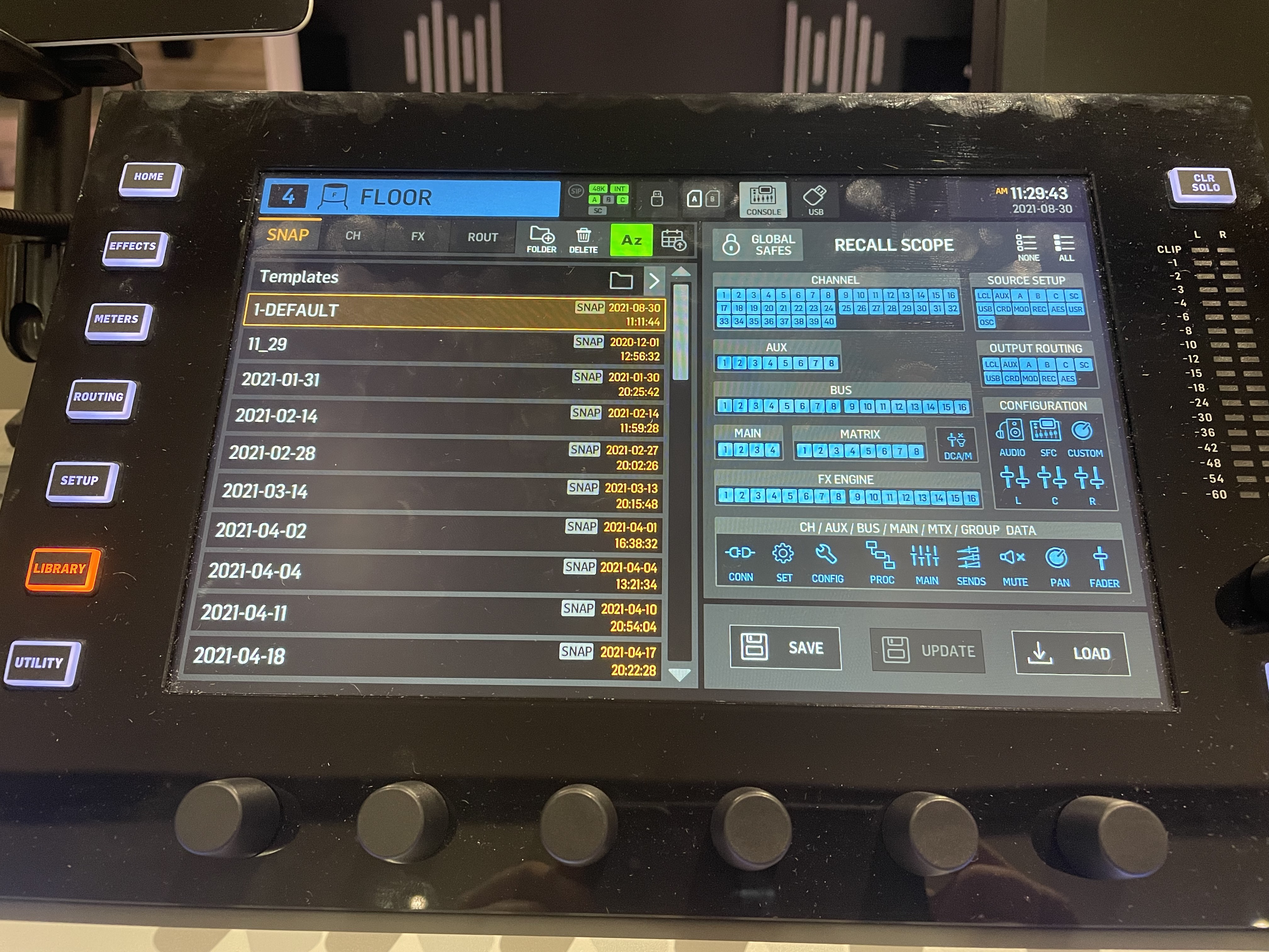
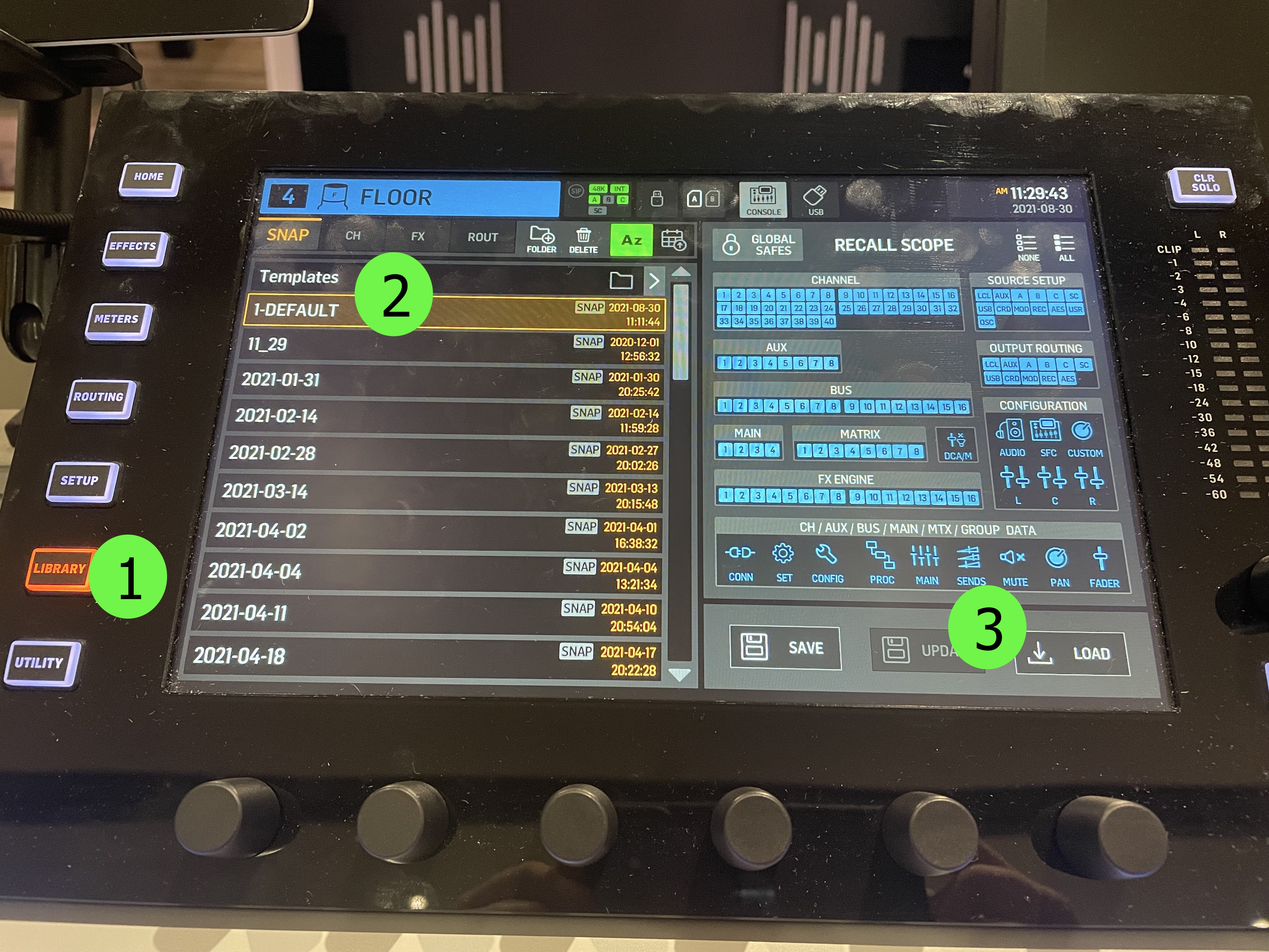
Minor Updates

diff --git a/basic-guides/worship-center-basic-guide.md b/basic-guides/worship-center-basic-guide.md
@@ -45,10 +45,10 @@ This page is meant to help as a reminder to basic startup, setup, and running of
 ## Load Default
 See Picture Below
 
-1. On Wing (Sound Booth) Push Library
+1. On Wing (Sound Booth) Push Library (#1 in picture)
 1. On Left scroll to top if needed
-1. Tap on 1-Default
-1. Click Load on Right
+1. Tap on 1-Default (#2 in picture)
+1. Click Load on Right (#3 in picture)
 1. Click Confirm
 1. Click “User 1” and use center section for iMac, iPad, handhelds, and headset
 1. Wireless microphones are located in video booth on chargers

diff --git a/basic-guides/worship-center-startup.md b/basic-guides/worship-center-startup.md
@@ -52,4 +52,4 @@ If using Mumble (tech team comms system):
   - If it continues to crash reboot computer
 - Connect via bluetooth to Jabra Engage 75
 
-![Jabra Connect](/tech-help-docs/assets/images/startup/jabra-connect.png){:height="200px" width="400px"}
+![Jabra Connect](/tech-help-docs/assets/images/basic-guides/startup/jabra-connect.png){:height="200px" width="400px"}
